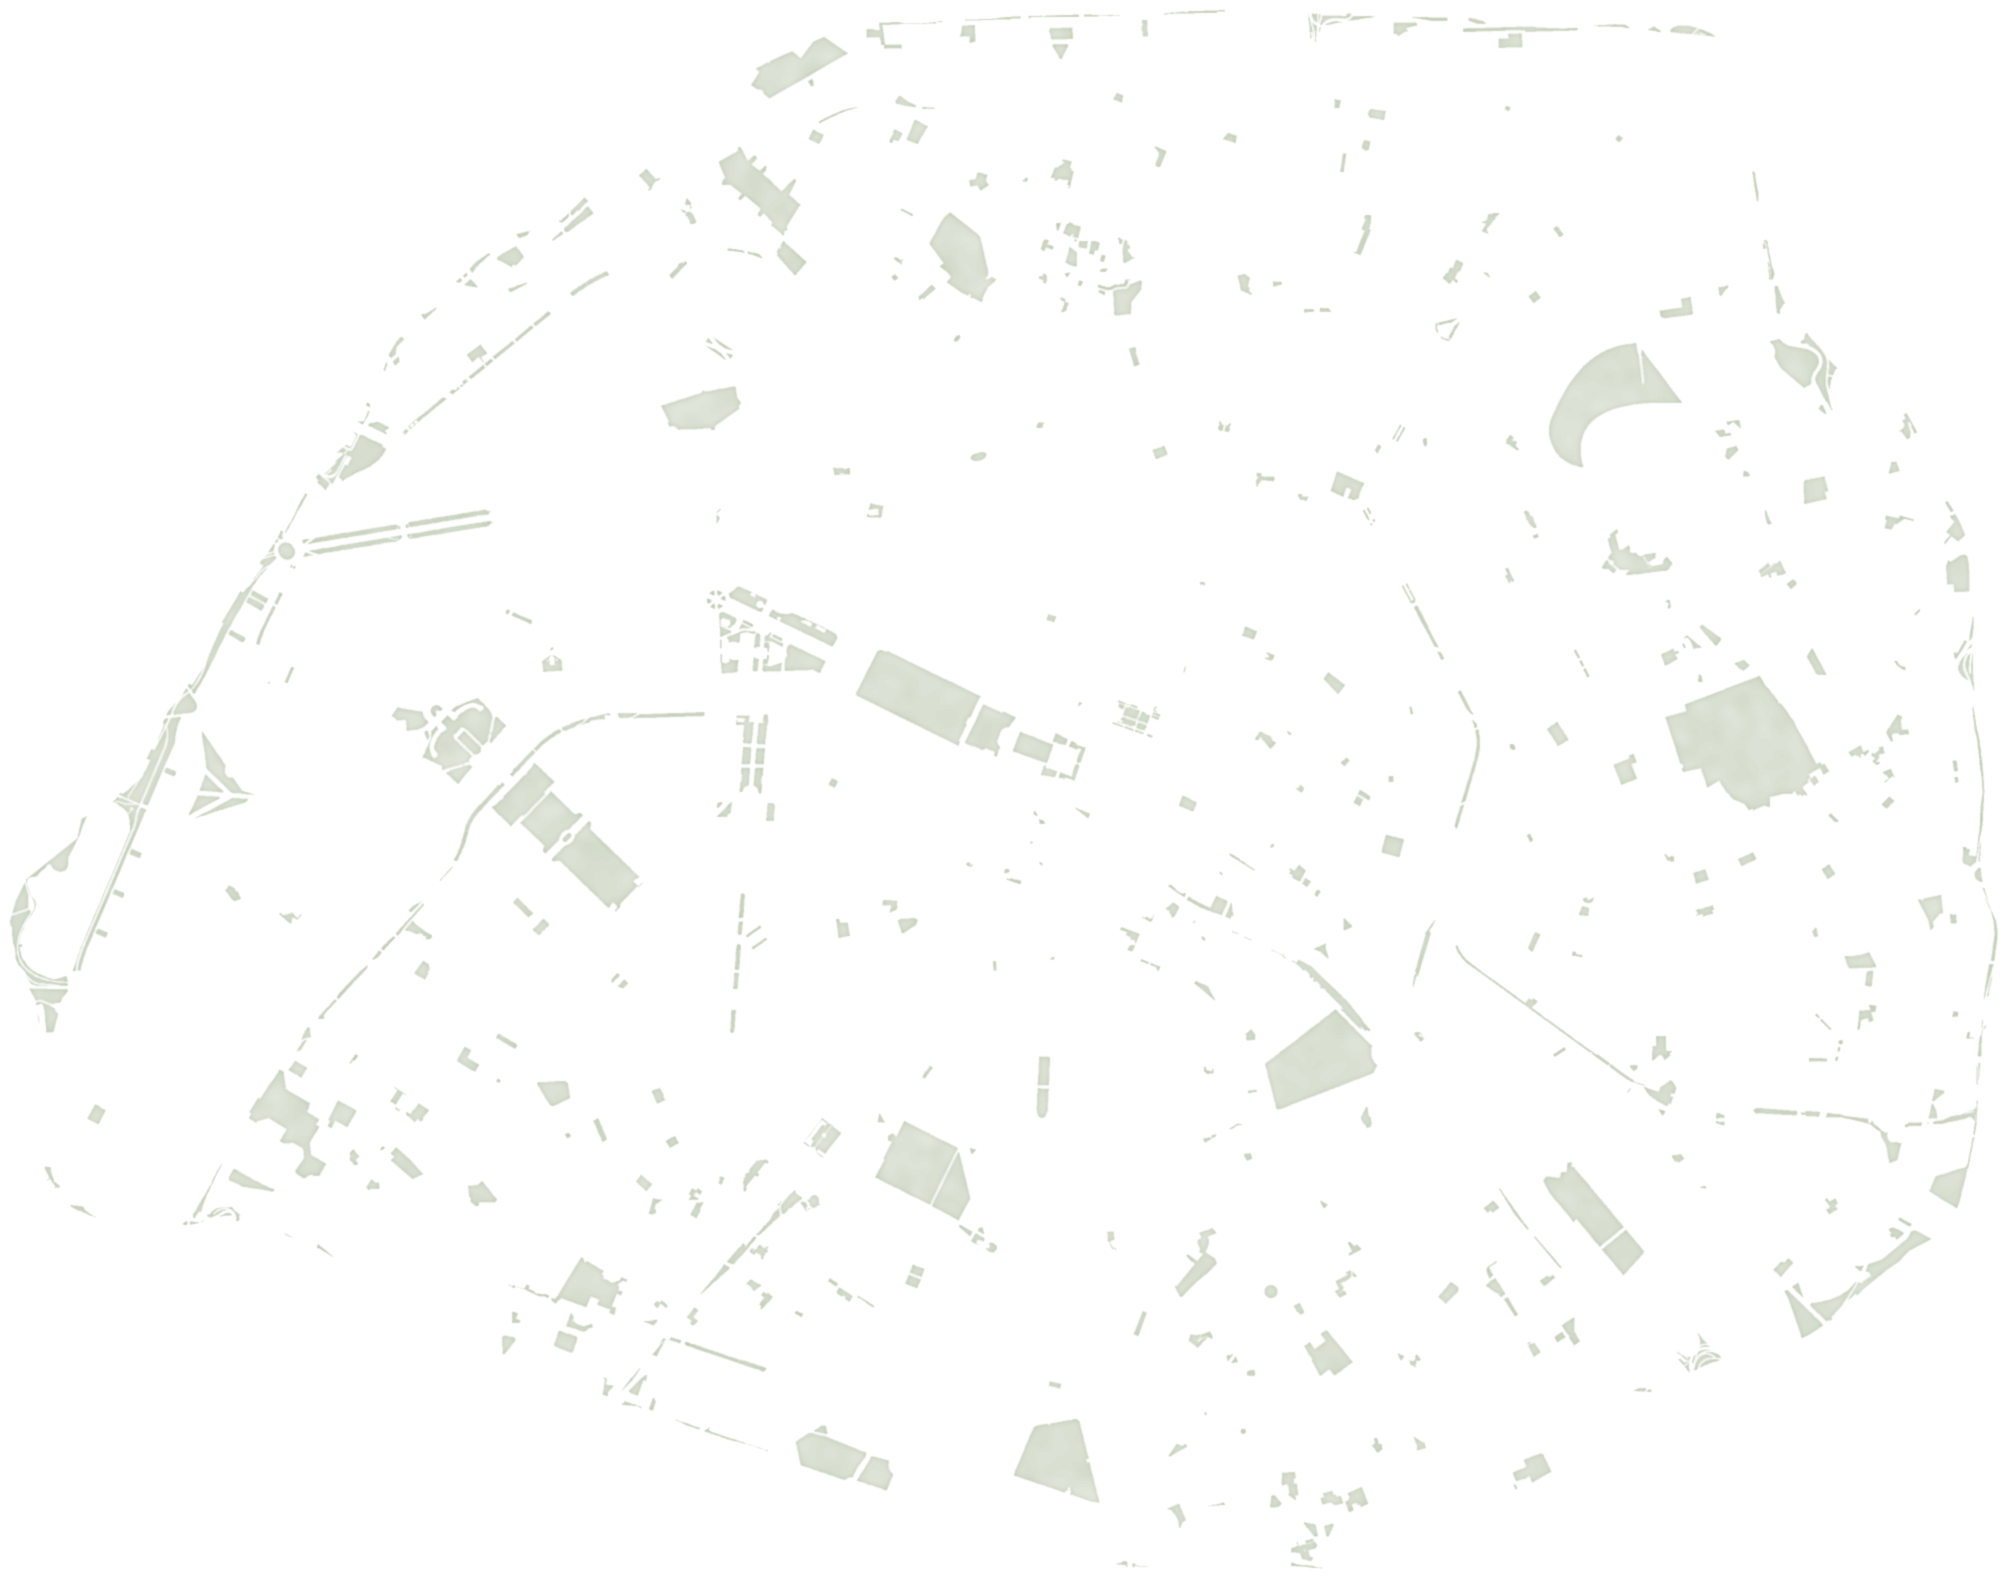
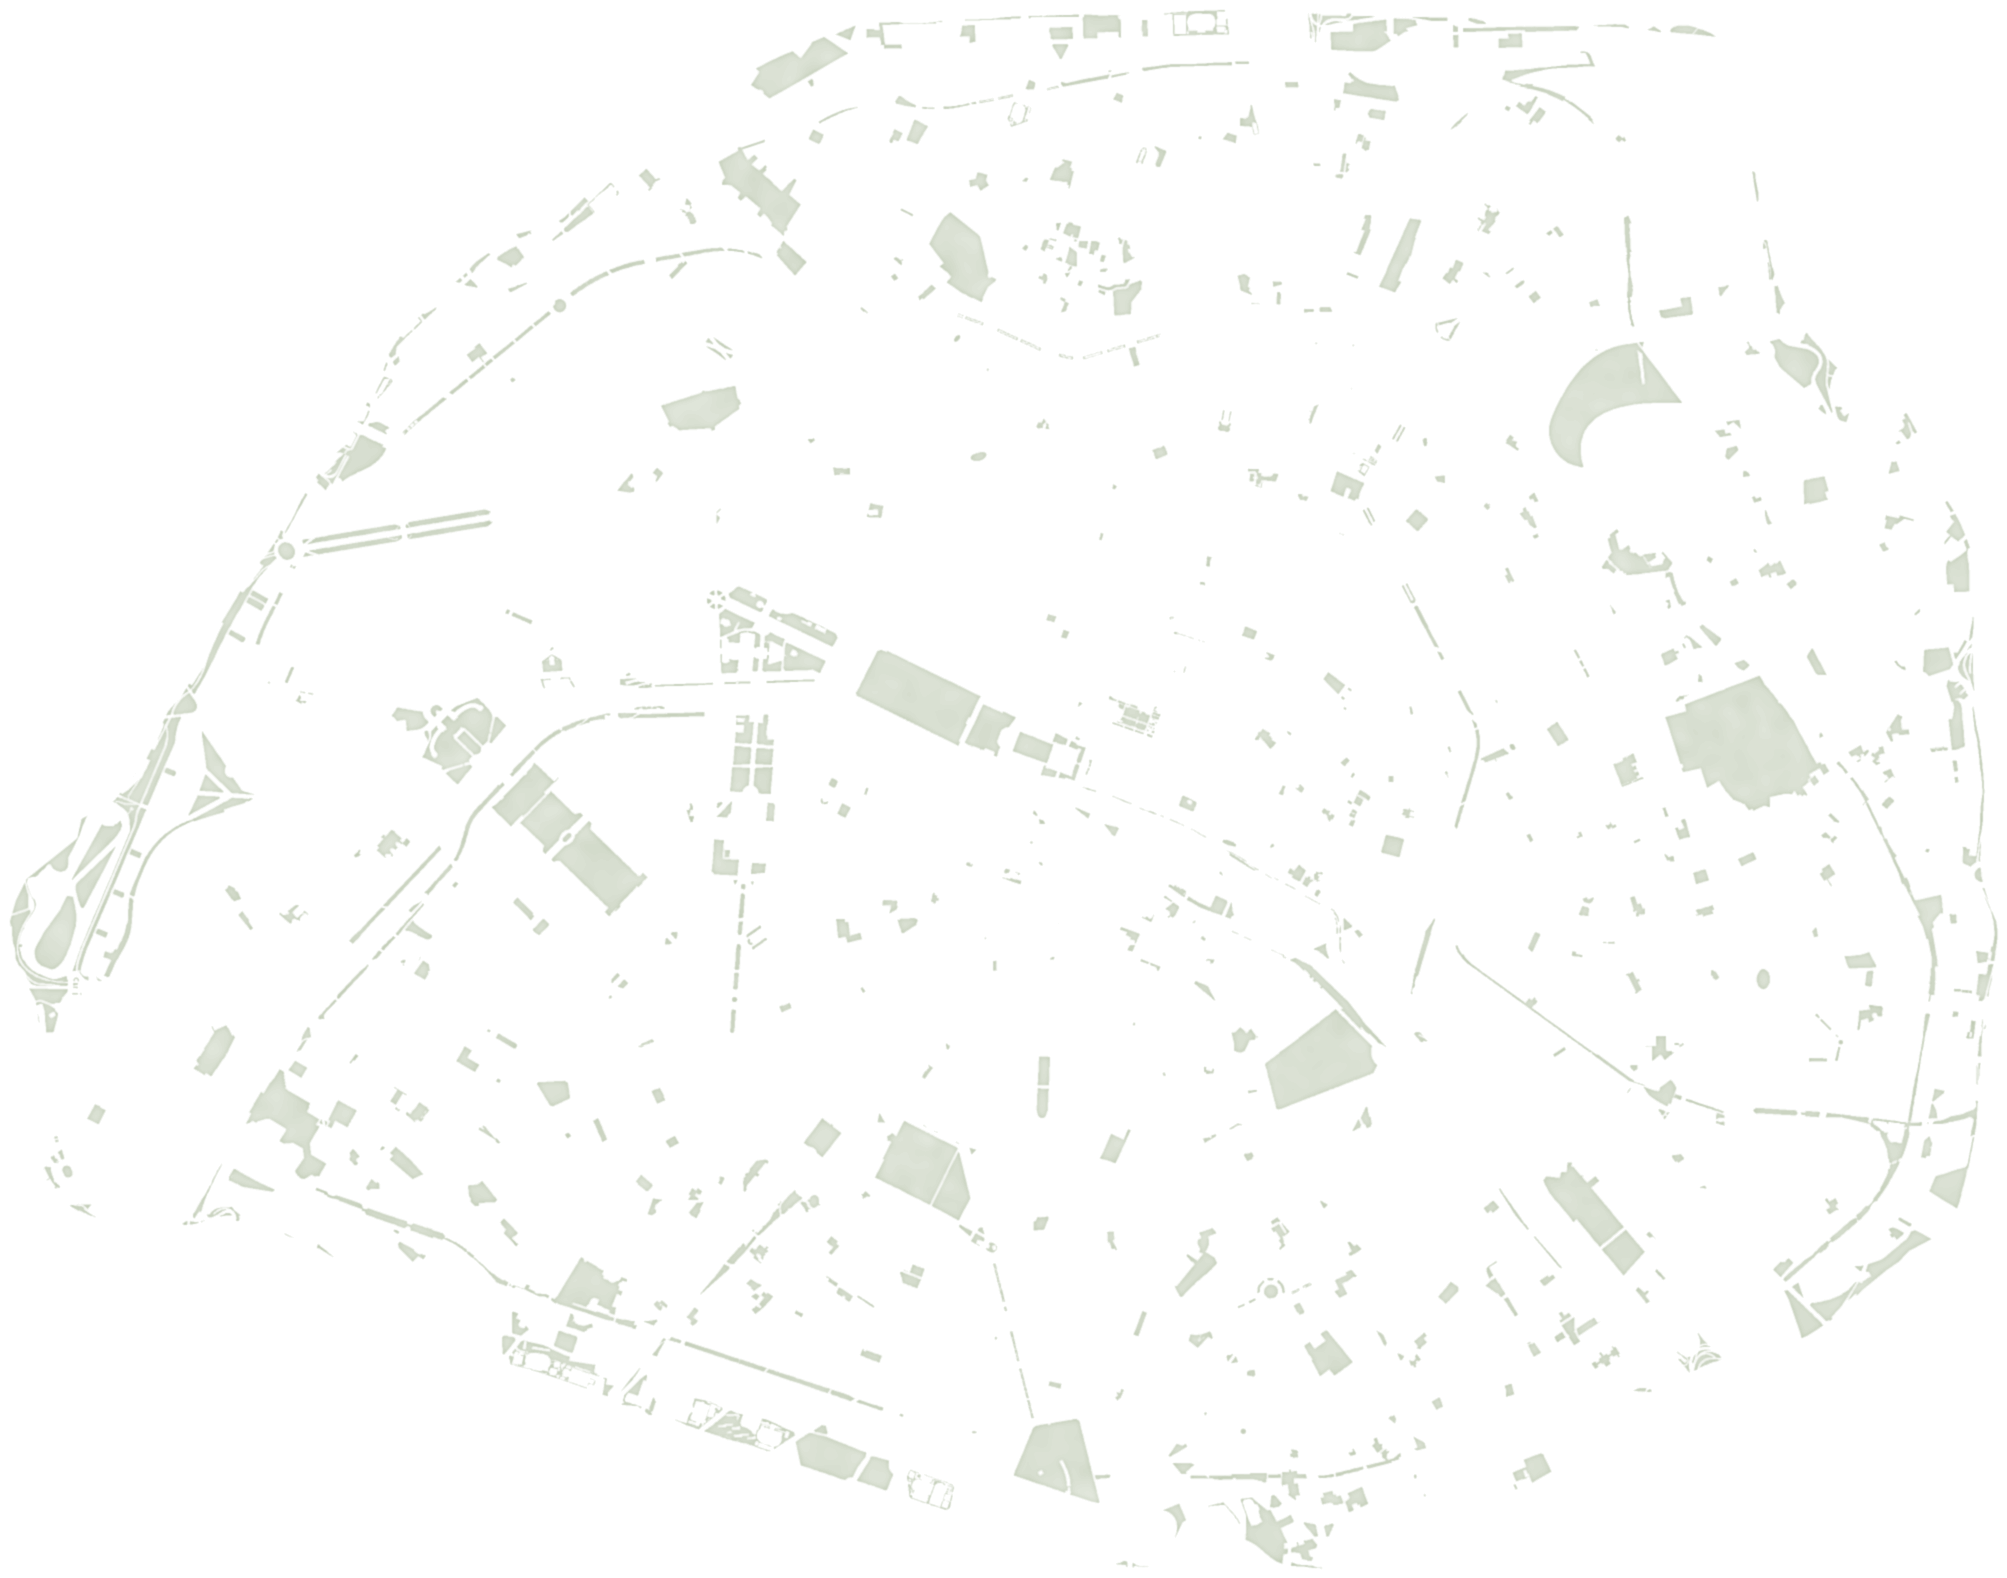
Parcs : ajoute cimetières et jardins (Espaces verts et assimilés)
Claude-Session: https://claude.ai/code/session_01EBJqGcyXk58ZNrmu64upLy

diff --git a/index.html b/index.html
@@ -169,7 +169,7 @@ function mkPaper(){try{
   const V=$('grain');V.style.backgroundImage=`url(${a.toDataURL()})`;PAPER_OK=true;
 }catch(e){}}
 mkPaper();
-const GM={"x": 3768, "y": 936, "w": 12042, "h": 9468};const gImg=new Image();gImg.onload=()=>{dirty=true;req()};gImg.src='green.png?v=1';const WM={"x": 4494, "y": 990, "w": 9828, "h": 8346};const wImg=new Image();wImg.onload=()=>{dirty=true;req()};wImg.src='water.png?v=2';
+const GM={"x": 3768, "y": 936, "w": 12042, "h": 9468};const gImg=new Image();gImg.onload=()=>{dirty=true;req()};gImg.src='green.png?v=2';const WM={"x": 4494, "y": 990, "w": 9828, "h": 8346};const wImg=new Image();wImg.onload=()=>{dirty=true;req()};wImg.src='water.png?v=2';
 let inkPat=null;(function(){try{const c=document.createElement('canvas');c.width=c.height=256;const g=c.getContext('2d'),im=g.createImageData(256,256),d=im.data;
   for(let i=0;i<d.length;i+=4){const v=Math.random();d[i]=d[i+1]=d[i+2]=0;d[i+3]=v>.68?Math.round((v-.68)/.32*235):0}
   g.putImageData(im,0,0);g.fillStyle='#000';

diff --git a/CLAUDE.md b/CLAUDE.md
@@ -11,7 +11,7 @@ Langue du site : français. Javier écrit en espagnol : réponds-lui en espagnol
   + `map` (projection : x=(lng-lng0)*mx*PX+ox, y=(lat0-lat)*my*PX+oy) + `demo` (ids pour `?demo`).
 - `data/visits.json` — visites : `{id, date, front, back?}`. C'est la seule source de « ce qui est photographié ».
 - `photos/<id>/front.webp` (+ `back.webp` = photo secrète) — 2400 px max, qualité 90, sans EXIF ; `thumb.webp` (420 px) = version affichée sur la carte, générée par add_photo.py.
-- `streets.json` (rues dans le périphérique, delta-encodées, en décimètres) et `water.png` (Seine + canaux, « Plan de voirie – Voies d'eau ») et `green.png` (parcs, « Plan de voirie – Emprises espaces verts », vert sauge doux, sous l'eau). Scripts de génération : hors dépôt.
+- `streets.json` (rues dans le périphérique, delta-encodées, en décimètres) et `water.png` (Seine + canaux, « Plan de voirie – Voies d'eau ») et `green.png` (parcs, « Plan de voirie – Emprises espaces verts » + « Espaces verts et assimilés » : parcs, squares, jardins, cimetières, sans jardinières ni talus ; vert sauge doux, sous l'eau). Scripts de génération : hors dépôt.
 - `scripts/add_photo.py` — ajoute une visite.
 
 ## Ajouter une photo (tâche la plus fréquente)
